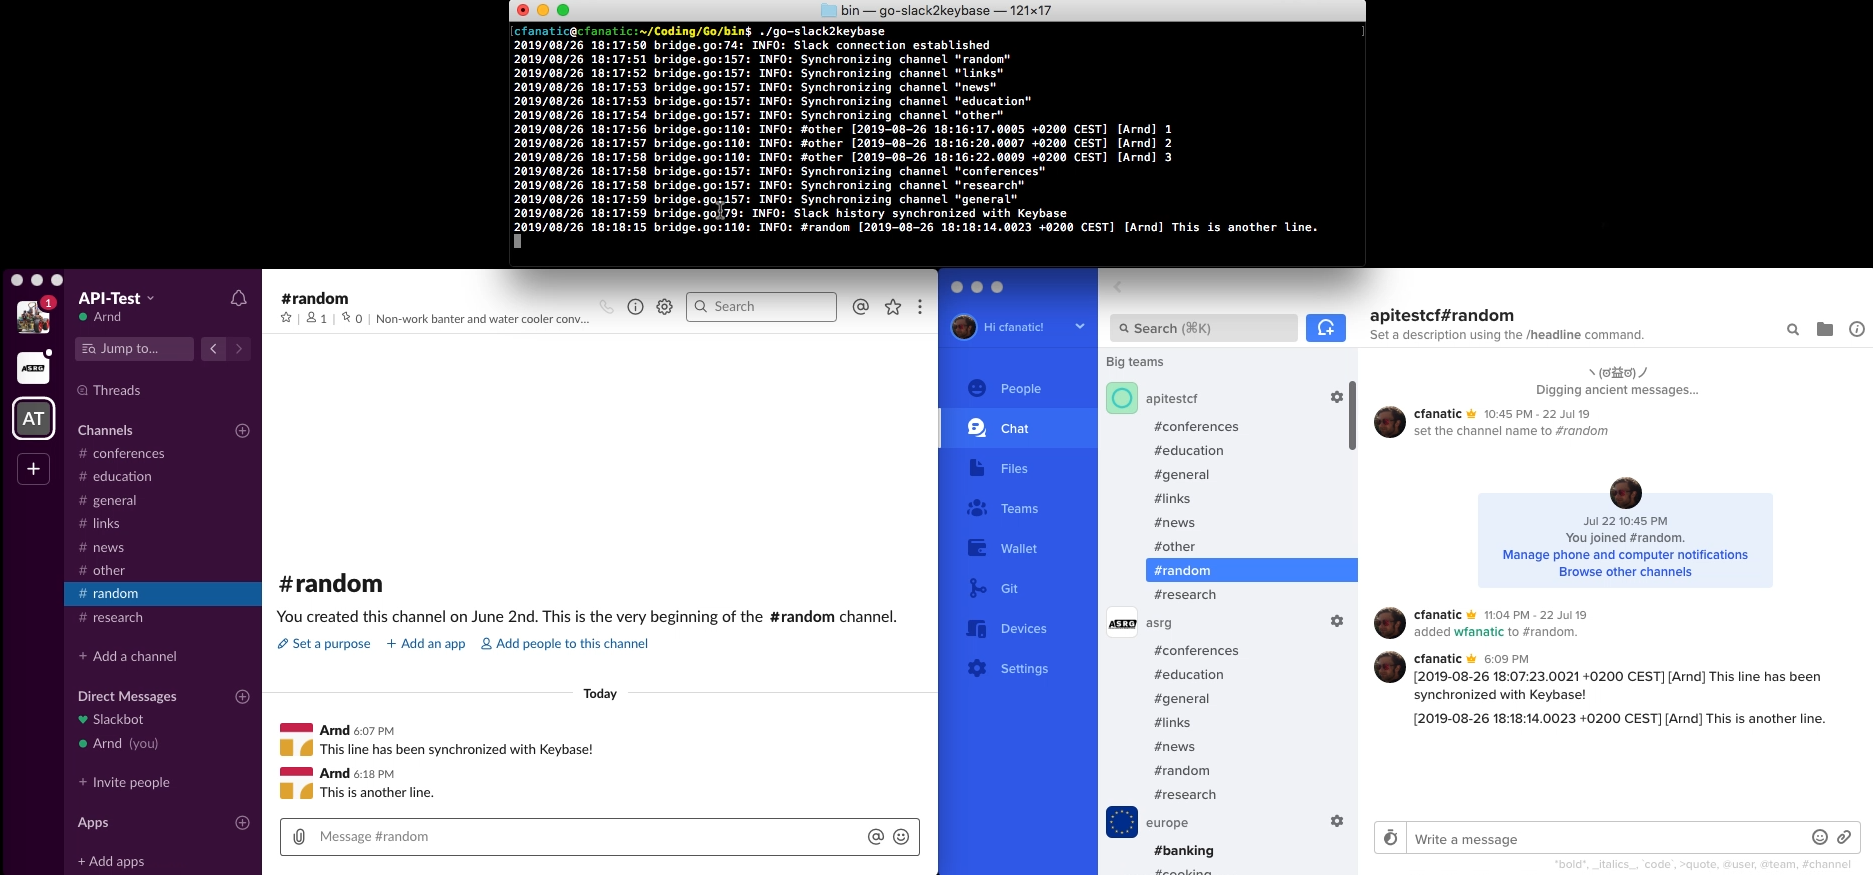
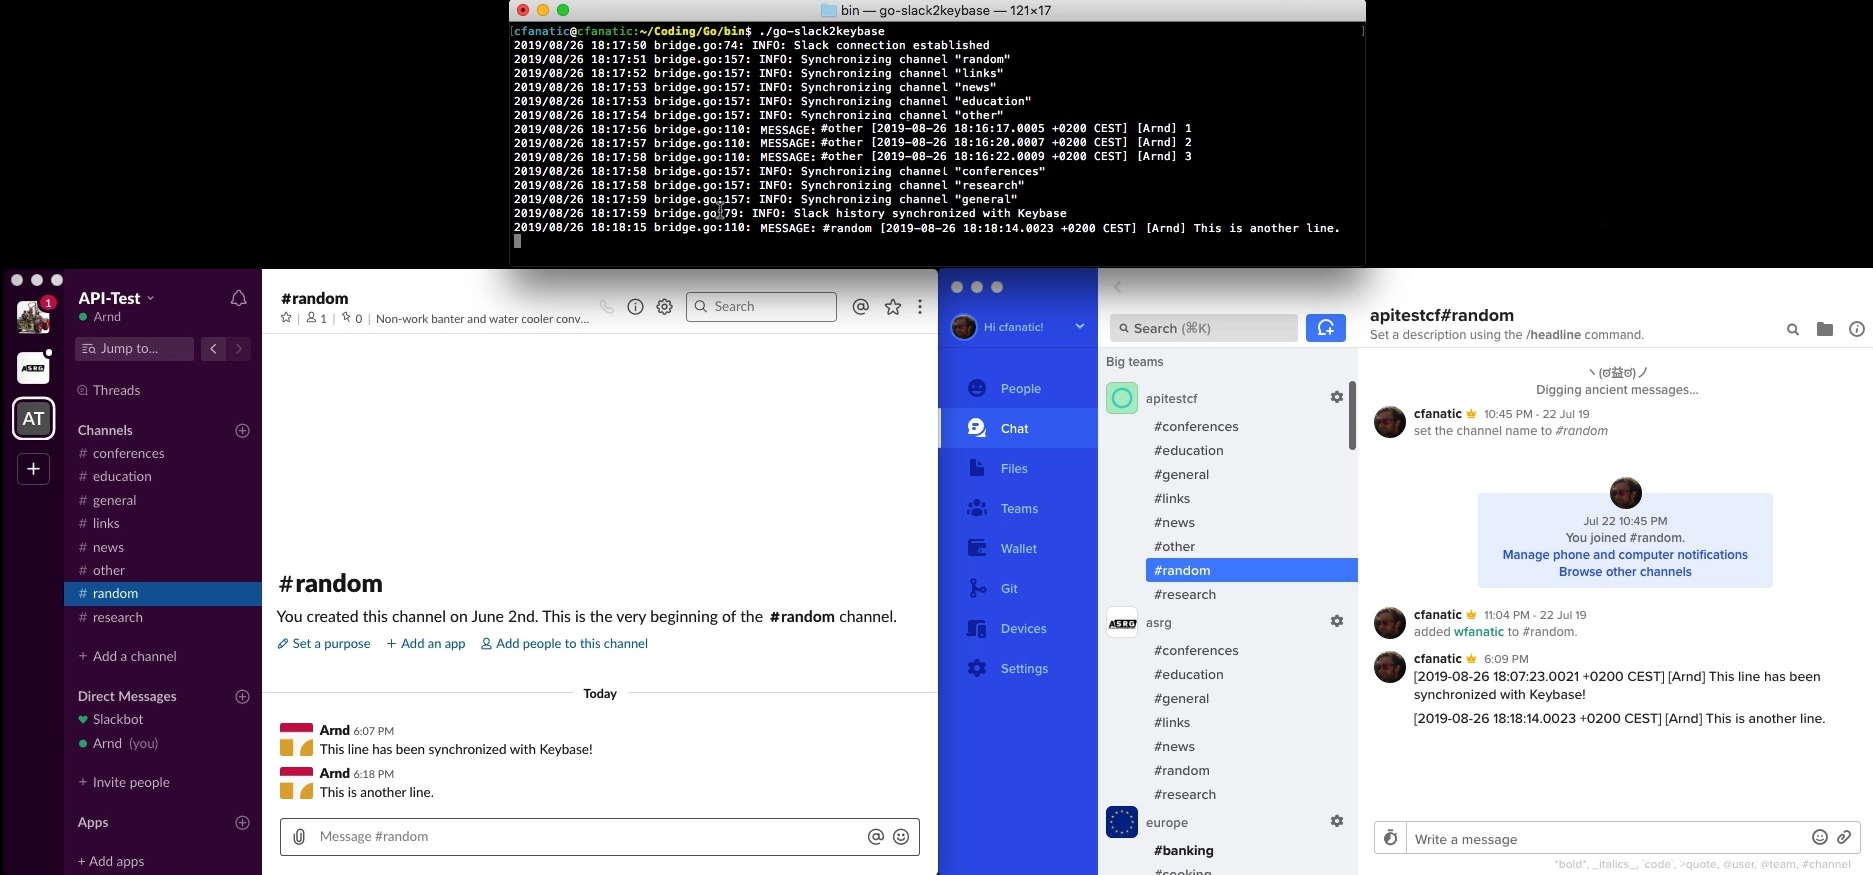
Improve console output for new messages

Changed region(s): [[0.4026, 0.1234, 0.6503, 0.1851], [0.4026, 0.2469, 0.7122, 0.2777]]

diff --git a/bridge/bridge.go b/bridge/bridge.go
@@ -107,7 +107,7 @@ func (b *Bridge) Stop() {
 // Input argument is an object of type message with channel, time, name and text information.
 func (b *Bridge) sendMessage(msg message) {
 	if result, err := b.api.kb.SendChannelMessage(b.chat.wspace, msg); err == nil {
-		b.trace.Printf("INFO: #%s [%s] [%s] %s\n", msg.channel, msg.time.Local(), msg.name, msg.text)
+		b.trace.Printf("MESSAGE: #%s [%s] [%s] %s\n", msg.channel, msg.time.Local(), msg.name, msg.text)
 	} else {
 		b.trace.Printf("ERROR: %s %s\n", result, err)
 	}
